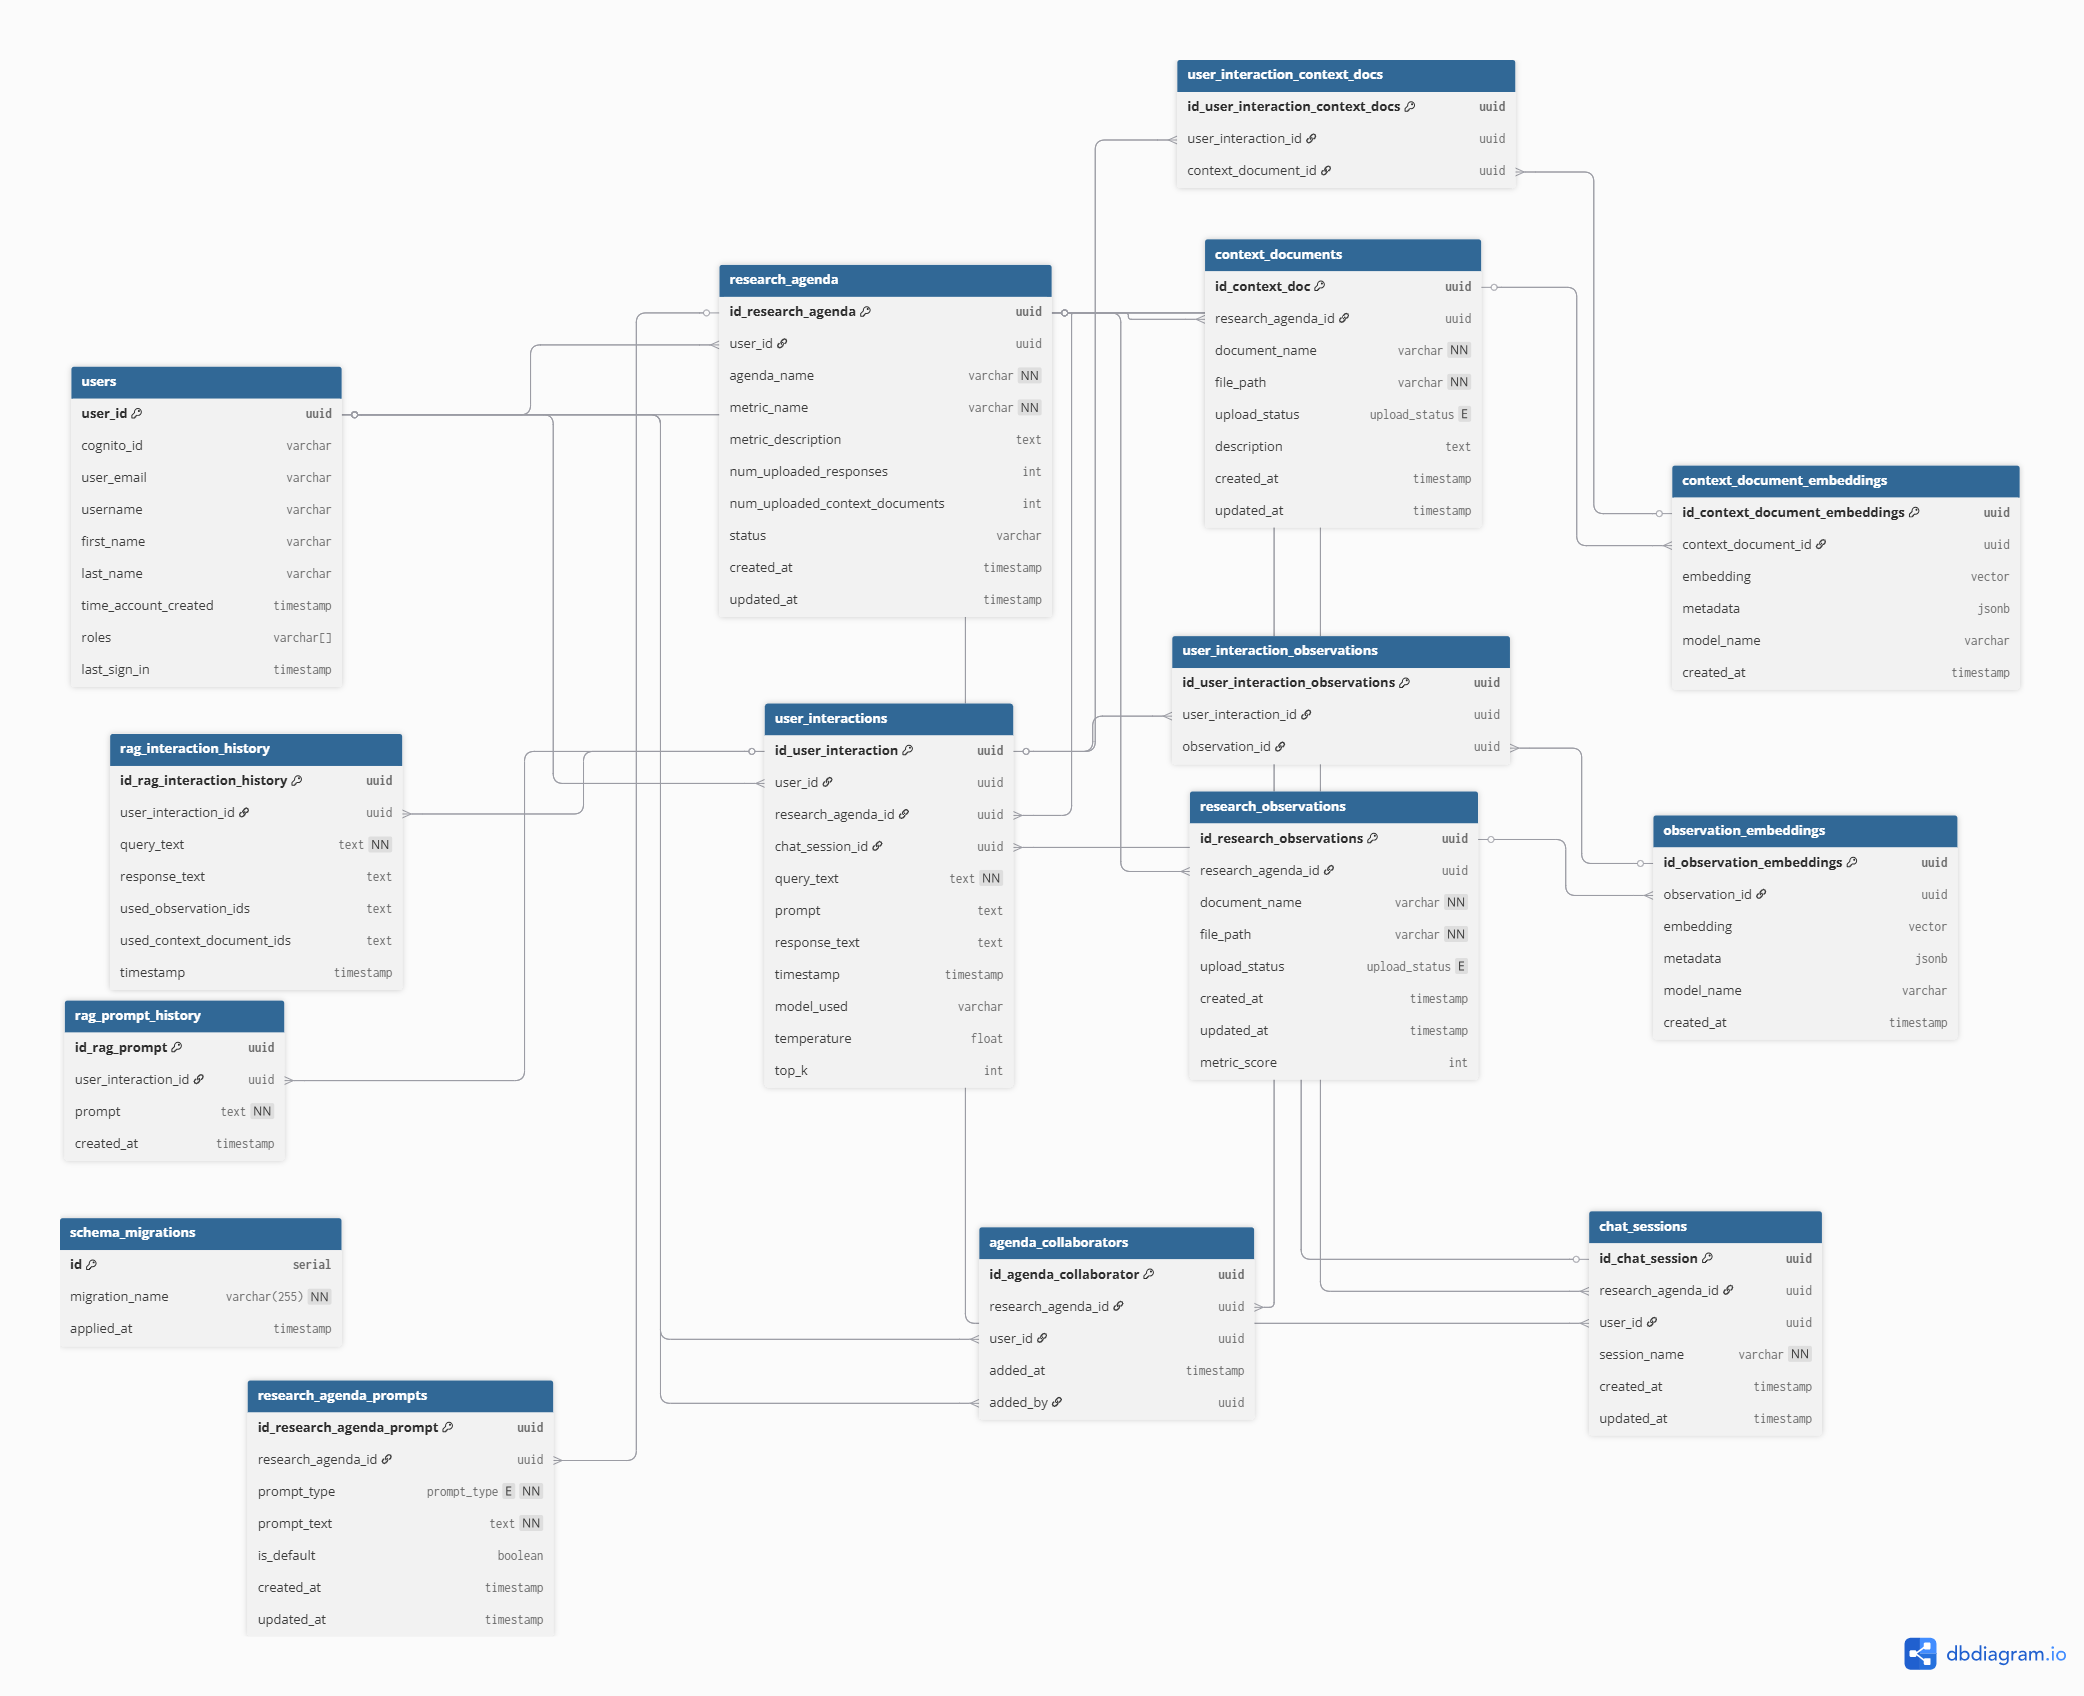
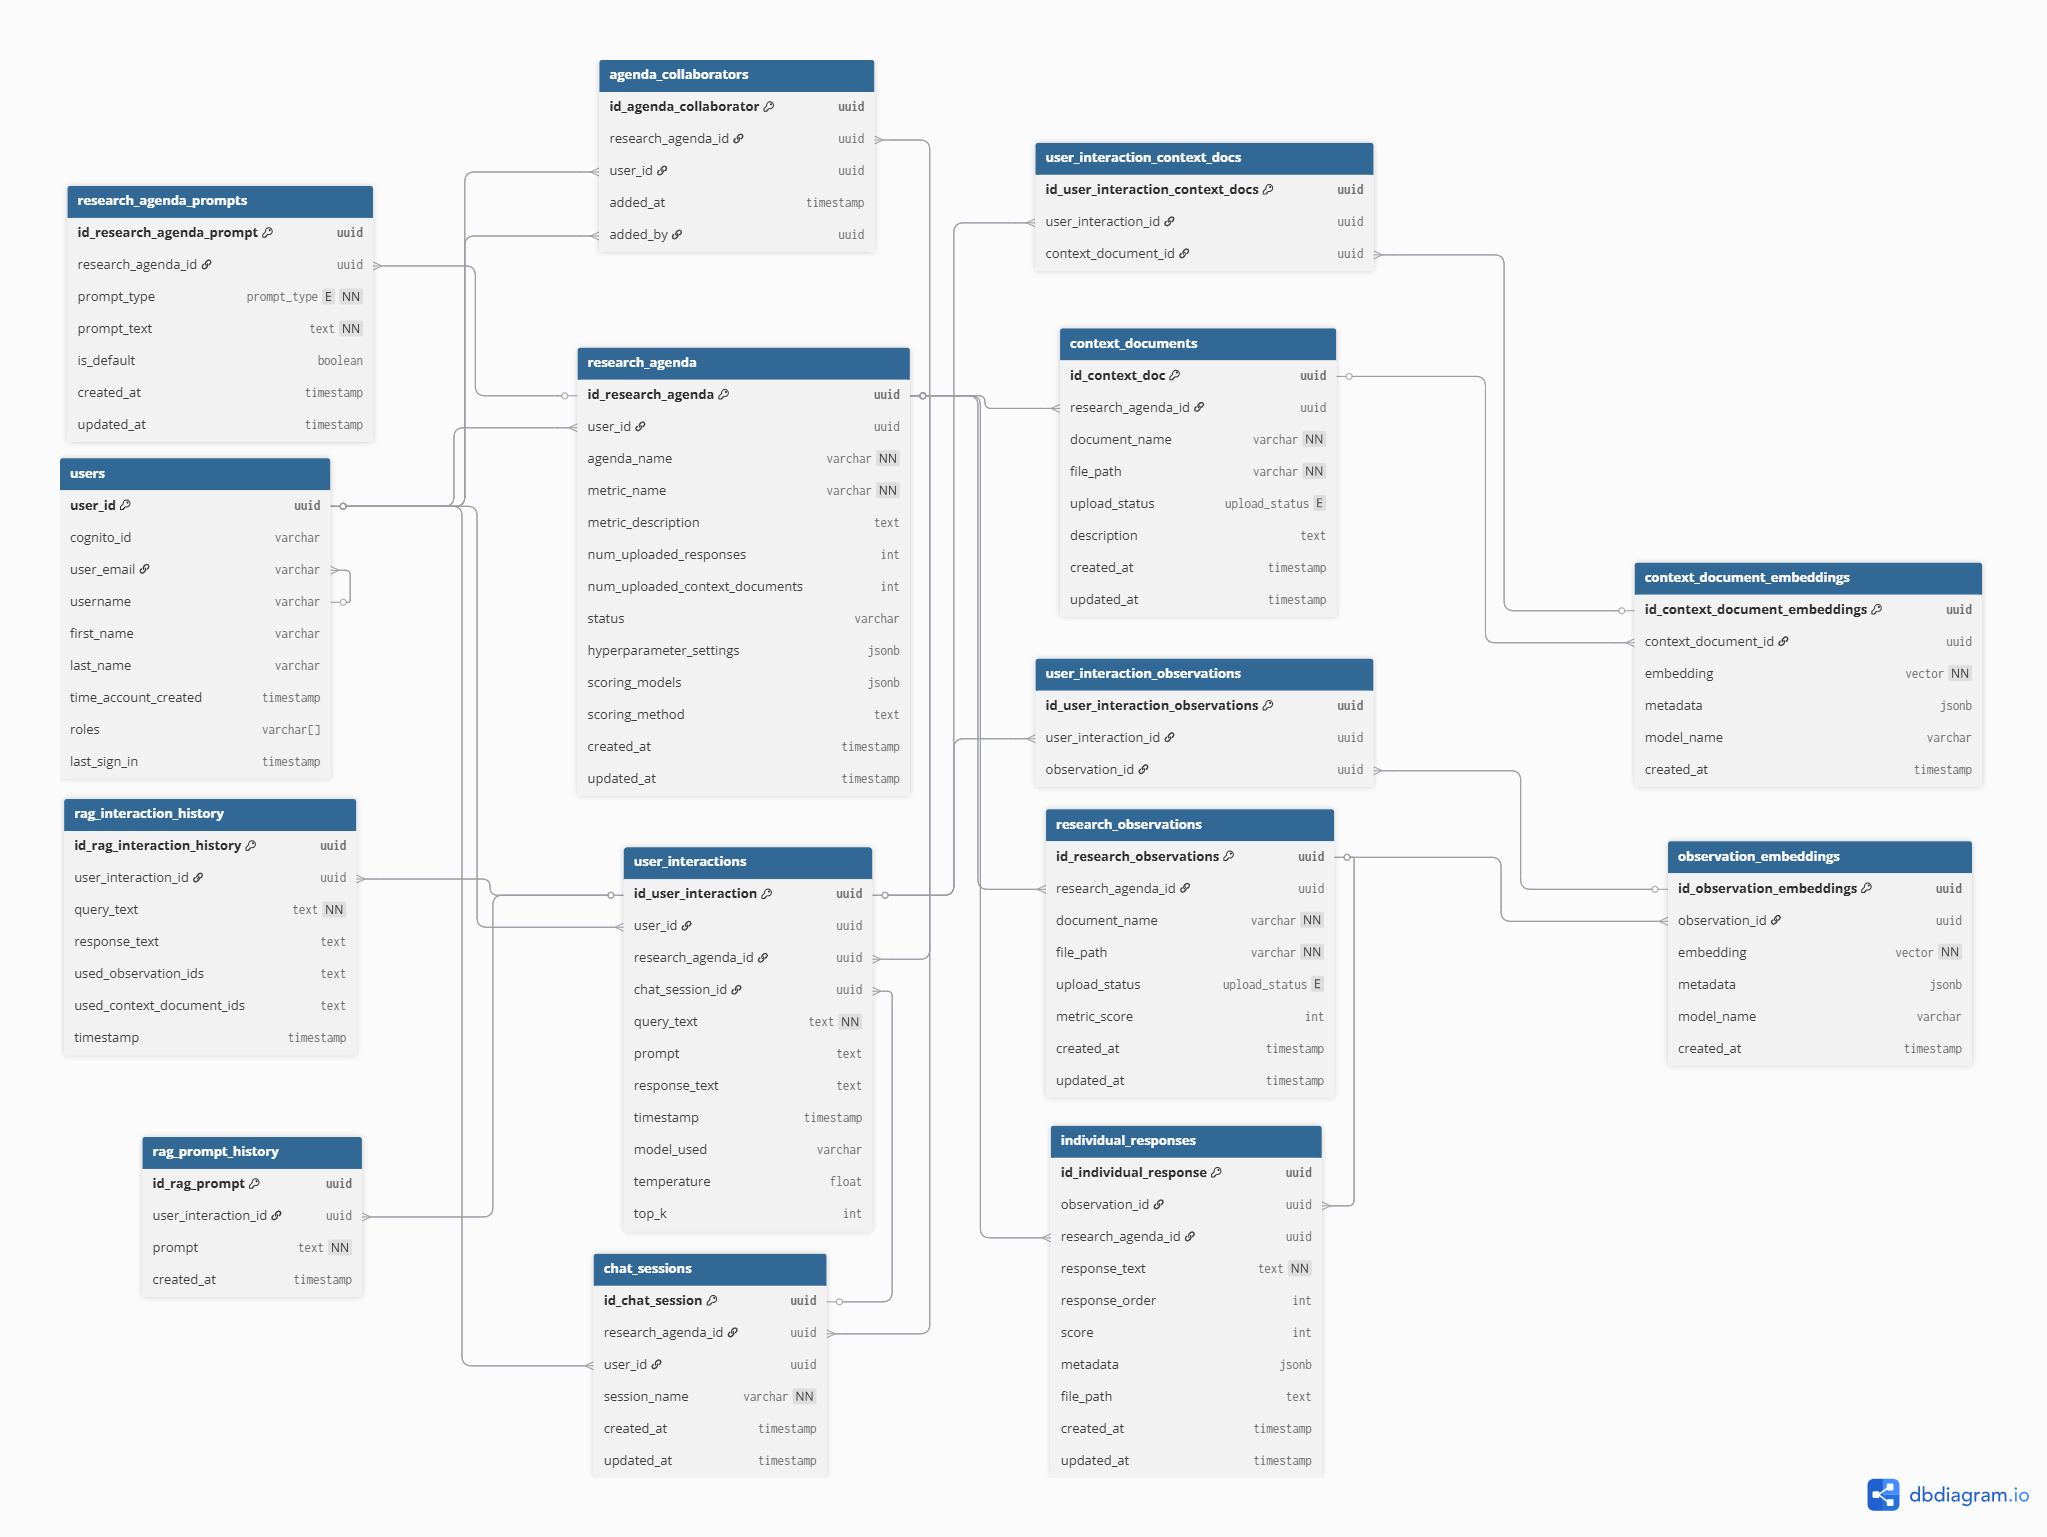
scoring + db documentation

diff --git a/cdk/stacks/api-stack.ts b/cdk/stacks/api-stack.ts
@@ -359,6 +359,27 @@ export class ApiGatewayStack extends cdk.Stack {
       }
     );
 
+    const scoringBucket = new s3.Bucket(this, `${id}-scoring-bucket`, {
+      blockPublicAccess: s3.BlockPublicAccess.BLOCK_ALL,
+      cors: [
+        {
+          allowedHeaders: ["*"],
+          allowedMethods: [
+            s3.HttpMethods.GET,
+            s3.HttpMethods.PUT,
+            s3.HttpMethods.HEAD,
+            s3.HttpMethods.POST,
+            s3.HttpMethods.DELETE,
+          ],
+          allowedOrigins: ["*"],
+        },
+      ],
+      // When deleting the stack, the bucket will be deleted as well
+      removalPolicy: cdk.RemovalPolicy.DESTROY,
+      autoDeleteObjects: true,
+      enforceSSL: true,
+    });
+
     // Create the Lambda function for generating presigned URLs
     const generatePreSignedURL = new lambda.Function(
       this,
@@ -1326,6 +1347,7 @@ export class ApiGatewayStack extends cdk.Stack {
           SM_DB_CREDENTIALS: db.secretPathAdminName,
           RDS_PROXY_ENDPOINT: db.rdsProxyEndpointAdmin,
           BUCKET: documentsBucket.bucketName,
+          SCORING_BUCKET: scoringBucket.bucketName,
           REGION: this.region,
           EMBEDDING_BUCKET_NAME: embeddingStorageBucket.bucketName,
           EMBEDDING_MODEL_PARAM: embeddingModelParameter.parameterName,
@@ -1442,7 +1464,7 @@ export class ApiGatewayStack extends cdk.Stack {
         code: lambda.DockerImageCode.fromEcr(props.ecrRepositories["scoring"], {
           tagOrDigest: "latest",
         }),
-        memorySize: 1024,
+        memorySize: 512,
         timeout: cdk.Duration.seconds(300),
         vpc: vpcStack.vpc,
         functionName: `${id}-ScoringLambdaFunction`,
@@ -1451,8 +1473,7 @@ export class ApiGatewayStack extends cdk.Stack {
           RDS_PROXY_ENDPOINT: db.rdsProxyEndpoint,
           REGION: this.region,
           BEDROCK_LLM_PARAM: bedrockLLMParameter.parameterName,
-          EMBEDDING_MODEL_PARAM: embeddingModelParameter.parameterName,
-          TABLE_NAME_PARAM: tableNameParameter.parameterName,
+          BUCKET: scoringBucket.bucketName
         },
       }
     );
@@ -1469,6 +1490,32 @@ export class ApiGatewayStack extends cdk.Stack {
       sourceArn: `arn:aws:execute-api:${this.region}:${this.account}:${this.api.restApiId}/*/*/agenda*`,
     });
 
+    scoringBucket.grantRead(scoringLambdaFunction);
+
+    // Add ListBucket permission explicitly
+    scoringLambdaFunction.addToRolePolicy(
+      new iam.PolicyStatement({
+        effect: iam.Effect.ALLOW,
+        actions: ["s3:ListBucket"],
+        resources: [scoringBucket.bucketArn], // Access to the specific bucket
+      })
+    );
+
+    scoringLambdaFunction.addToRolePolicy(
+      new iam.PolicyStatement({
+        effect: iam.Effect.ALLOW,
+        actions: [
+          "s3:PutObject",
+          "s3:GetObject",
+          "s3:DeleteObject",
+          "s3:HeadObject",
+        ],
+        resources: [
+          `arn:aws:s3:::${scoringBucket.bucketName}/*`, // Grant access to all objects within this bucket
+        ],
+      })
+    );
+
     // Bedrock permissions
     const scoringBedrockPolicyStatement = new iam.PolicyStatement({
       effect: iam.Effect.ALLOW,
@@ -1482,6 +1529,35 @@ export class ApiGatewayStack extends cdk.Stack {
         `arn:aws:bedrock:${this.region}::foundation-model/amazon.titan-text-express-v1`,
       ],
     });
+
+    // Attach the custom Bedrock policy to Lambda function
+    scoringLambdaFunction.addToRolePolicy(scoringBedrockPolicyStatement);
+
+    // Add the S3 event source trigger to the Lambda function
+    scoringLambdaFunction.addEventSource(
+      new lambdaEventSources.S3EventSource(scoringBucket, {
+        events: [
+          s3.EventType.OBJECT_CREATED,
+          s3.EventType.OBJECT_REMOVED,
+          s3.EventType.OBJECT_RESTORE_COMPLETED,
+        ],
+      })
+    );
+
+    // Grant access to Secret Manager
+    scoringLambdaFunction.addToRolePolicy(
+      new iam.PolicyStatement({
+        effect: iam.Effect.ALLOW,
+        actions: [
+          //Secrets Manager
+          "secretsmanager:GetSecretValue",
+        ],
+        resources: [
+          `arn:aws:secretsmanager:${this.region}:${this.account}:secret:*`,
+        ],
+      })
+    );
+
     textGenLambdaDockerFunc.addToRolePolicy(textGenBedrockPolicyStatement);
 
     // Secrets Manager access

diff --git a/cdk/stacks/vpc-stack.ts b/cdk/stacks/vpc-stack.ts
@@ -146,7 +146,7 @@ export class VpcStack extends Stack {
       const natGatewayProvider = ec2.NatProvider.gateway();
 
       // VPC for application
-      this.vpc = new ec2.Vpc(this, "rdi-Vpc", {
+      this.vpc = new ec2.Vpc(this, "lat-Vpc", {
         ipAddresses: ec2.IpAddresses.cidr(this.vpcCidrString),
         natGatewayProvider: natGatewayProvider,
         natGateways: 1,

diff --git a/cdk/lambda/db_setup/migrations/005_filepath_responses.js b/cdk/lambda/db_setup/migrations/005_filepath_responses.js
@@ -1,0 +1,7 @@
+exports.up = (pgm) => {
+  pgm.addColumn("individual_responses", {
+    file_path: {
+      type: "text",
+    },
+  });
+};

diff --git a/cdk/lambda/data_ingestion/src/processing/documents.py b/cdk/lambda/data_ingestion/src/processing/documents.py
@@ -25,6 +25,7 @@ logger = logging.getLogger(__name__)
 RDI_DATA_INGESTION_BUCKET = os.environ["BUCKET"]
 EMBEDDING_BUCKET_NAME = os.environ["EMBEDDING_BUCKET_NAME"]
 REGION = os.environ["REGION"]
+SCORING_BUCKET = os.environ["SCORING_BUCKET"]
 
 s3 = boto3.client("s3", region_name=REGION)
 transcribe = boto3.client("transcribe", region_name=REGION)
@@ -185,7 +186,7 @@ def process_mp3(tmp_file_path: str, filename: str, output_bucket: str) -> List[s
 
     return output_keys
 
-def parse_responses(doc_text: str, doc_id: str, agenda_id: str, db_connection: PgConnection) -> List[str]:
+def parse_responses(doc_text: str, doc_id: str, agenda_id: str, file_path: str db_connection: PgConnection) -> List[str]:
     """
     Parse the responses from the document text and store them in the database.
 
@@ -251,14 +252,15 @@ def parse_responses(doc_text: str, doc_id: str, agenda_id: str, db_connection: P
             if response_text.strip():  # Only store non-empty responses
                 cursor.execute("""
                     INSERT INTO individual_responses 
-                    (observation_id, research_agenda_id, response_text, response_order, metadata)
-                    VALUES (%s, %s, %s, %s, %s)
+                    (observation_id, research_agenda_id, response_text, response_order, metadata, file_path)
+                    VALUES (%s, %s, %s, %s, %s, %s)
                 """, (
                     doc_id,
                     agenda_id, 
                     response_text,
                     i,
-                    json.dumps({"source": "ai_parsed", "model": "meta.llama3-70b-instruct-v1:0"})
+                    json.dumps({"source": "ai_parsed", "model": "meta.llama3-70b-instruct-v1:0"}),
+                    file_path
                 ))
         
         db_connection.commit()
@@ -336,7 +338,7 @@ def store_doc_chunks(bucket: str, filenames: List[str], document_type: str, doc_
         doc_text = output_buffer.read().decode('utf-8')
 
         if document_type == "observation_documents":
-            parse_responses(doc_text=doc_text, doc_id=doc_id, agenda_id=agenda, db_connection=db_connection)
+            parse_responses(doc_text=doc_text, doc_id=doc_id, agenda_id=agenda, file_name=filename, db_connection=db_connection)
         
         doc_chunks = text_splitter.create_documents([doc_text])
         

diff --git a/cdk/lambda/scoring/src/main.py b/cdk/lambda/scoring/src/main.py
@@ -203,7 +203,7 @@ def handler(event, context):
       "items": [{"id": "r1", "text": "..."}],
       "model_ids": ["..."]            # optional override
     }
-    """
+    
     try:
         body = event.get("body") if isinstance(event, dict) and "body" in event else event
         if isinstance(body, str):
@@ -256,3 +256,5 @@ def handler(event, context):
             "headers": {"Content-Type": "application/json"},
             "body": json.dumps({"error": str(e)})
         }
+        """
+    return

diff --git a/docs/architectureDeepDive.md b/docs/architectureDeepDive.md
@@ -29,7 +29,7 @@ AWS CodePipeline and CodeBuild automates Docker image builds and Lambda deployme
 
 ![Database Diagram](./media/db-diagram.png)
 
-### RDS Tables
+### RDS PostgreSQL Tables
 
 ### `users` table
 
@@ -135,27 +135,6 @@ AWS CodePipeline and CodeBuild automates Docker image builds and Lambda deployme
 | `temperature`    | Temperature parameter used                     |
 | `top_k`          | Top-k parameter used                           |
 
-### `observation_embeddings` table
-
-| Column Name      | Description                                    |
-| ---------------- | ------------------------------------------     |
-| `id_observation_embeddings` | UUID, primary key               |
-| `observation_id` | Foreign key to research_observations table     |
-| `embedding`      | Vector embedding of the observation            |
-| `metadata`       | JSON metadata about the embedding              |
-| `model_name`     | Name of the embedding model used               |
-| `created_at`     | Timestamp of creation                          |
-
-### `context_document_embeddings` table
-
-| Column Name      | Description                                    |
-| ---------------- | ------------------------------------------     |
-| `id_context_document_embeddings` | UUID, primary key         |
-| `context_document_id` | Foreign key to context_documents table   |
-| `embedding`      | Vector embedding of the document               |
-| `metadata`       | JSON metadata about the embedding              |
-| `model_name`     | Name of the embedding model used               |
-| `created_at`     | Timestamp of creation                          |
 
 ### `user_interaction_observations` table
 
@@ -193,3 +172,23 @@ AWS CodePipeline and CodeBuild automates Docker image builds and Lambda deployme
 | `used_observation_ids` | IDs of observations used in response     |
 | `used_context_document_ids` | IDs of context documents used in response |
 | `timestamp`      | Timestamp of interaction                       |
+
+### RDS Langchain Tables
+
+### `langchain_pg_collection` table
+
+| Column Name | Description                    |
+| ----------- | ------------------------------ |
+| `uuid`      | The uuid of the collection     |
+| `name`      | The id of the document         |
+| `cmetadata` | The metadata of the collection |
+
+### `langchain_pg_embedding` table
+
+| Column Name     | Description                           |
+| --------------- | ------------------------------------- |
+| `id`            | The ID of the embeddings              |
+| `collection_id` | The uuid of the collection            |
+| `embedding`     | The vector embeddings of the document |
+| `cmetadata`     | The metadata of the collection        |
+| `document`      | The content of the document           |
